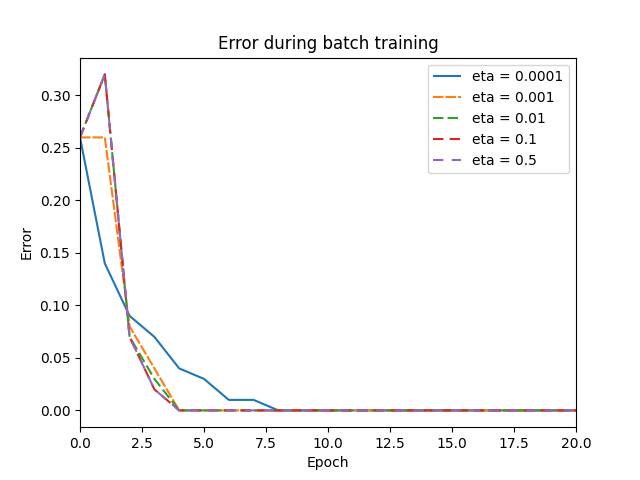
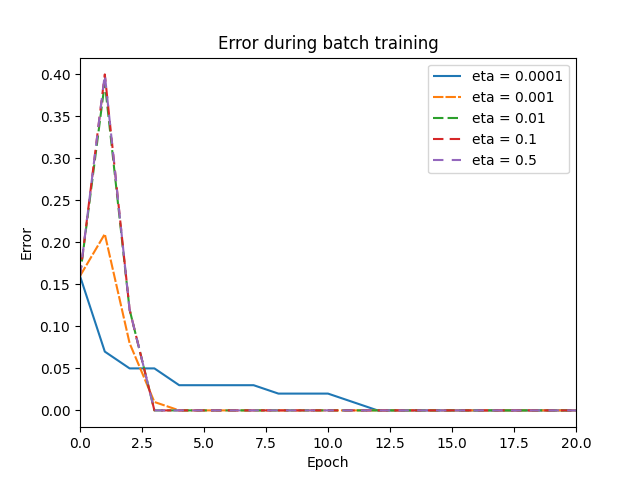
Add learning rate decay

Changed region(s): [[0.0625, 0.125, 0.6562, 0.875], [0.7188, 0.8438, 0.875, 0.875], [0.0625, 0.7188, 0.125, 0.7812]]

diff --git a/src/main.py b/src/main.py
@@ -83,7 +83,6 @@ def generate_data(num_examples):
 def plotError(err, type, eta):
     fig = plt.figure()
     for i in range(len(err)):
-        print(err[i])
         plt.plot(range(EPOCHS), err[i], label="eta = " +str(eta[i]), linestyle="--", dashes=(5, i))
         plt.xlabel('Epoch')
         plt.ylabel('Error')
@@ -114,7 +113,7 @@ def plotDecSurf(epoch, weights, train, type):
     plt.ylim([x2_min, x2_max])
     plt.xlabel('x1')
     plt.ylabel('x2')
-    plt.title('Decision Surface After Epoch = '+ str(epoch) + "("+type+")")
+    plt.title('Decision Surface After Epoch = '+ str(epoch) + " ("+type+")")
     fig.savefig("figures/"+type+"/dec_surf"+str(epoch)+".png")
     plt.clf()
     
@@ -154,6 +153,29 @@ def main():
 
     plotError(err_inc, "incremental", eta)
     plotError(err_batch, "batch", eta)
+
+    # Decaying learning rate
+    err = []
+    eta_decay = 0.1
+    percep_decay_inc = Perceptron(train_data, test_data, weights)
+    for epoch in range(EPOCHS):
+        err.append(percep_decay_inc.incremental_update_weights(eta_decay))
+        eta_decay *= 0.8
+        if (epoch == 4 or epoch == 9 or epoch == 49 or epoch == 99):
+            plotDecSurf(epoch, percep_decay_inc.weights, percep_decay_inc.train, "decay_inc")
+
+    plotError([err, err_inc[3]], "decay_inc", ["decay", "normal"])
+
+    err = []
+    eta_decay = 0.1
+    percep_decay_batch = Perceptron(train_data, test_data, weights)
+    for epoch in range(EPOCHS):
+        err.append(percep_decay_batch.incremental_update_weights(eta_decay))
+        eta_decay *= 0.8
+        if (epoch == 4 or epoch == 9 or epoch == 49 or epoch == 99):
+            plotDecSurf(epoch, percep_decay_batch.weights, percep_decay_batch.train, "decay_batch")
+
+    plotError([err, err_batch[3]], "decay_batch", ["decay", "normal"])
 
 
 if __name__ == "__main__":
